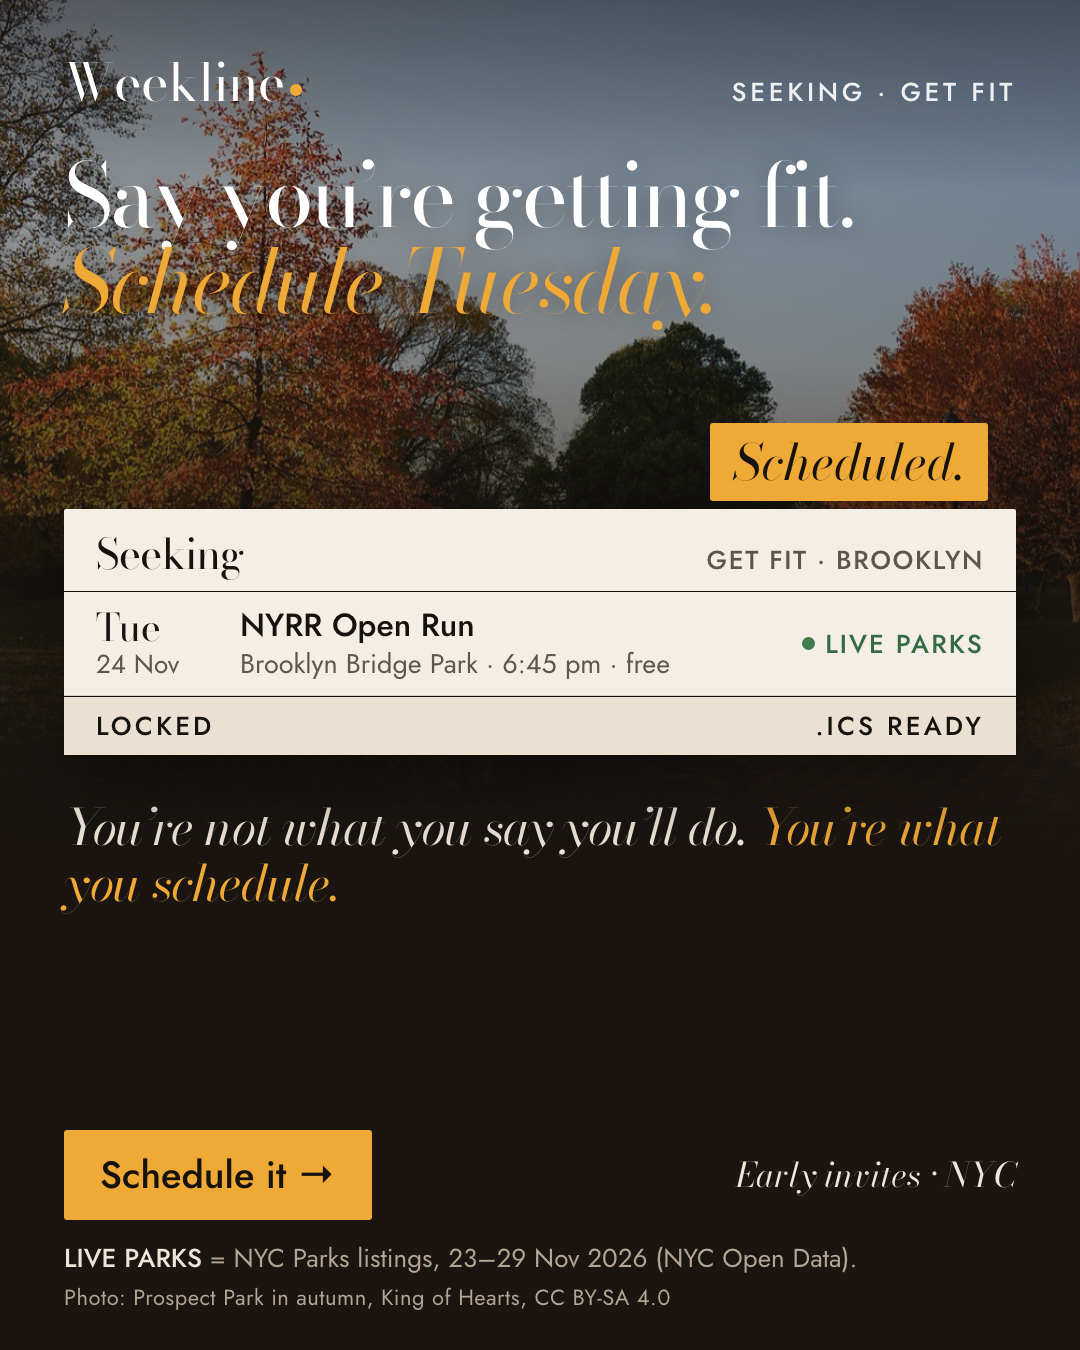
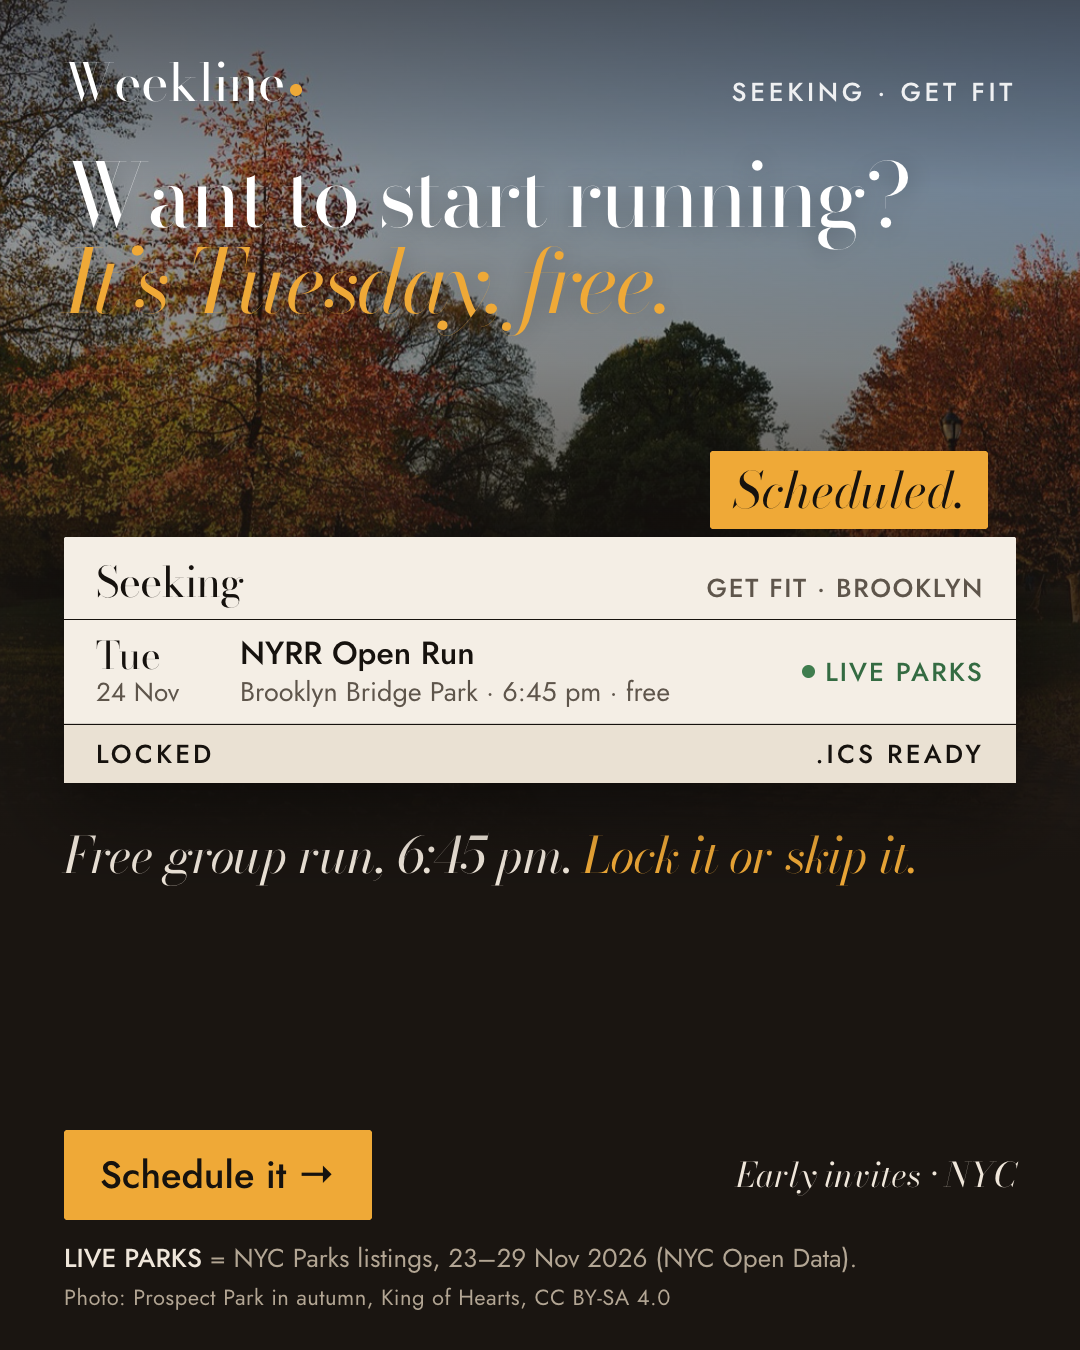
Weekline: new hooks (Sunday-night hero, no-guilt running frame, warmer invite text)

Changed region(s): [[0.0611, 0.3111, 0.9472, 0.6844], [0.0611, 0.1244, 0.8556, 0.2489], [0.5806, 0.4667, 0.6111, 0.5289]]

diff --git a/public/projects/weekline/landing.html b/public/projects/weekline/landing.html
@@ -142,7 +142,7 @@
     <div class="wrap hero-grid">
       <div>
         <p class="eyebrow" id="hero-eyebrow">Manhattan + Brooklyn · early build</p>
-        <h1 id="hero-h">A free week in Brooklyn, <em>planned.</em></h1>
+        <h1 id="hero-h">Your NYC week, sorted <em>by Sunday night.</em></h1>
         <p class="lede" id="hero-sub">Free and cheap rows matched to your radius. Live NYC Parks events labeled live. Thin days stay honest.</p>
         <div class="btn-row">
           <a class="btn btn-primary" href="/projects/weekline/v2/">Try the live demo
@@ -334,10 +334,26 @@
   var p = new URLSearchParams(location.search).get('a') || '';
   var alias = { free: 'gain', seek: 'identity' };
   var a = alias[p] || p;
-  if (!/^(pain|gain|identity)$/.test(a)) a = 'gain';
+  if (!/^(pain|gain|identity|sunday)$/.test(a)) a = 'sunday';
 
   // h: headline; em: the words set in italic (styling only, same copy)
   var V = {
+    sunday: {
+      eyebrow: 'Manhattan + Brooklyn · early build',
+      h: 'Your NYC week, sorted by Sunday night.', em: 'by Sunday night.',
+      sub: 'Free and cheap things that are actually on, matched to your goals and your side of the river.',
+      title: 'Your week · Cheap Thrills', meta: 'Brooklyn · stay close (~20 min) · free only',
+      rows: [
+        ['Mon', '6:30 pm', 'Shape Up NYC fitness class', 'Brooklyn rec center', 'Free', 'live'],
+        ['Tue', '', 'Open night', '', '', 'open'],
+        ['Wed', '6:00 pm', 'Free museum evening', 'Brooklyn', 'Free', 'sample'],
+        ['Thu', '', 'Open night', '', '', 'open'],
+        ['Fri', '7:00 pm', 'Gallery openings walk', 'Bushwick', 'Free', 'editorial'],
+        ['Sat', '10:00 am', 'Urban Park Rangers nature walk', 'Prospect Park', 'Free', 'live'],
+        ['Sun', '11:00 am', 'It’s My Park volunteer day', 'McCarren Park', 'Free', 'live']
+      ],
+      total: '<strong>$0</strong> · 5 plans · 2 open'
+    },
     pain: {
       eyebrow: 'Manhattan + Brooklyn · early build',
       h: 'End the “idk you pick” group chat.', em: 'group chat.',
@@ -372,8 +388,8 @@
     },
     identity: {
       eyebrow: 'Seeking · fitness · early build',
-      h: 'Getting fit? Prove it Tuesday.', em: 'Tuesday.',
-      sub: 'You’re not what you say you’ll do. You’re what you schedule. Parks classes, on your calendar.',
+      h: 'Want to start running? It’s Tuesday, free.', em: 'It’s Tuesday, free.',
+      sub: 'Free NYC Parks classes and group runs near you, on your calendar. No streaks, no coach.',
       title: 'Seeking · Fitness', meta: 'Brooklyn · stay close (~20 min) · free only',
       rows: [
         ['Mon', '', 'Open', '', '', 'open'],

diff --git a/public/projects/weekline/ads/frames.html b/public/projects/weekline/ads/frames.html
@@ -130,7 +130,7 @@ var F={
    '<div class="grow">'+sheet([LIVE.mon,LIVE.tue,OPEN.wed,SAMPLE.sat],{m:'Cheap Thrills · Brooklyn'},'','<span>Send to chat</span><span>.ics ready</span>')+'</div>'+
    CTA('See a sample week','Early invites · NYC')+FOOT_MIX;},
  2:function(){return TOP('Pick a crew · get the week')+
-   '<h1>Your NYC week, on <em>one Sheet.</em></h1>'+
+   '<h1>Your NYC week, sorted <em>by Sunday night.</em></h1>'+
    '<p class="sub">Crew, borough, radius, budget. Mon–Sun, ready to send.</p>'+
    '<div class="grow">'+sheet(WEEK,{m:'Brooklyn · ~40 min · Under $25',place:false},'compact','<span>Send to chat</span><span>.ics ready</span>')+'</div>'+
    CTA('See a sample week','Early invites · NYC')+FOOT_MIX;},
@@ -145,17 +145,17 @@ var F={
    '<div class="grow">'+sheet([LIVE.tue,OPEN.wed,OPEN.thu,SAMPLE.sat],{m:'Brooklyn · Under $25'},'','<span>Add to calendar</span><span>.ics</span>')+'</div>'+
    CTA('Get my week','Early invites · NYC')+FOOT_MIX;},
  5:function(){return TOP('Seeking · get fit')+
-   '<h1>Say you’re getting fit. <em>Schedule Tuesday.</em></h1>'+
+   '<h1>Want to start running? <em>It’s Tuesday, free.</em></h1>'+
    '<div class="grow">'+sheet([LIVE.tue],{title:'Seeking',m:'Get fit · Brooklyn'},'roomy','<span>Locked</span><span>.ics ready</span>','<span class="stamp" style="right:28px;top:-86px">Scheduled.</span>')+
-   '<p class="quote">You’re not what you say you’ll do. <em>You’re what you schedule.</em></p></div>'+
+   '<p class="quote">Free group run, 6:45 pm. <em>Lock it or skip it.</em></p></div>'+
    CTA('Schedule it','Early invites · NYC')+FOOT_LIVE;},
  6:function(){
    var mon={d:'Mon',n:'23 Nov',t:'Bodyweight Interval Training',p:'Why: low impact, all levels · 6 pm',b:'live'};
    var tue={d:'Tue',n:'24 Nov',t:'NYRR Open Run',p:'Why: free ~3-mile group run · 6:45 pm',b:'live'};
    var fri={d:'Fri',n:'27 Nov',t:'Post-Thanksgiving Super Hike',p:'Why: 2-hour Rangers hike · noon',b:'live'};
    return TOP('Seeking · get fit')+
-   '<h1>Getting fit? <em>Prove it Tuesday.</em></h1>'+
-   '<p class="sub">This week’s NYC Parks events, each with a why.</p>'+
+   '<h1>This week’s free workouts, <em>each with a why.</em></h1>'+
+   '<p class="sub">Live NYC Parks events near you, 23–29 Nov.</p>'+
    '<div class="grow">'+sheet([mon,tue,OPEN.wed,fri],{title:'Seeking',m:'Get fit · Brooklyn'},'roomy','<span>Lock · skip</span><span>.ics ready</span>')+'</div>'+
    CTA('Schedule it','No streaks. No coach.')+FOOT_LIVE;}
 };

diff --git a/public/projects/weekline/ads.html b/public/projects/weekline/ads.html
@@ -111,10 +111,10 @@ code{font-size:.85em;background:var(--paper-2);padding:1px 5px;overflow-wrap:any
 var U='&utm_source=meta&utm_medium=paid&utm_campaign=wl-test-1&utm_content=';
 var F=[
  {a:'A · Pain',p:'Ten screenshots. One group chat. Zero plans. Weekline turns what’s on in NYC into a Mon–Sun Sheet you can send.',h:'End the ‘idk you pick’ chat',c:'Learn more',q:'pain',id:'a1'},
- {a:'A · Pain',p:'Stop planning in tabs. Weekline builds the week, you send it to the chat. Early invites open in NYC.',h:'Send the plan, not the list',c:'Sign up',q:'pain',id:'a3'},
+ {a:'A · Pain',p:'Stop planning in tabs. Weekline builds the week, you send it to the chat. Early invites open in NYC.',h:'Your week, sorted by Sunday night',c:'Sign up',q:'pain',id:'a3'},
  {a:'B · Gain',p:'A Brooklyn week under $25, built from what’s on. NYC Parks events labeled live. Empty nights stay empty.',h:'A free week in Brooklyn, planned',c:'Learn more',q:'gain',id:'b1'},
  {a:'B · Gain',p:'Maximum city, minimum spend. Get a Mon–Sun Sheet you can add to your calendar.',h:'Free NYC, sorted by day',c:'Sign up',q:'gain',id:'b3'},
- {a:'C · Identity',p:'You’re not what you say you’ll do. You’re what you schedule. Free Parks fitness, on your week.',h:'Getting fit? Prove it Tuesday.',c:'Learn more',q:'identity',id:'c1'},
+ {a:'C · Identity',p:'Free group runs and NYC Parks classes near you, ready for your calendar. No streaks, no coach.',h:'Start running? It’s Tuesday, free.',c:'Learn more',q:'identity',id:'c1'},
  {a:'C · Identity',p:'No streaks, no coach. Just this week’s NYC Parks fitness near you, ready for your calendar.',h:'Your fit week, in Brooklyn',c:'Sign up',q:'identity',id:'c3'}
 ];
 var i=0,$=function(x){return document.getElementById(x)};

diff --git a/public/projects/weekline/v2/app.js b/public/projects/weekline/v2/app.js
@@ -172,7 +172,7 @@ function welcomeView() {
   const z = ui.guestZone;
   const body = ui.auth ? authSheet() : `
     <p class="cap">Brooklyn Bridge Park, sunset 4:31 pm</p>
-    <h1>Your NYC week, built around <em>what you want.</em></h1>
+    <h1>Your NYC week, sorted <em>by Sunday night.</em></h1>
     <button class="btn sun" data-act="guest">Show me a week<small>No account. A surprise week for ${z === "manhattan" ? "Manhattan" : "Brooklyn"}.</small></button>
     <div class="zonepick" role="group" aria-label="Surprise week for">
       ${ZONES.map((x) => `<button data-act="gzone" data-v="${x.id}" aria-pressed="${z === x.id}">${x.label}</button>`).join("")}
@@ -595,7 +595,7 @@ function crewView() {
         <p class="names">${nIn ? esc(names.join(", ")) : "Be the first. Send it to someone."}${nMaybe ? ` <span class="muted">· ${nMaybe} maybe</span>` : ""}</p>
         <p class="cnt">${nIn}<small>going</small></p>
       </div>
-      <div class="send"><span>Send to the group</span>${sendLinks(inviteUrl(active), `Come with me: ${e.title}, ${e.when || ""}.`)}</div>
+      <div class="send"><span>Send to the group</span>${sendLinks(inviteUrl(active), `I'm going to ${e.title}${e.when ? ", " + e.when : ""}. Are you in?`)}</div>
       ${inv.local ? `<p class="fine wrap" style="margin-top:8px">Made without the server, so replies only count on the phone they're tapped on.</p>` : ""}`;
   } else if (active && !inv) {
     top = `<p class="wrap empty">Loading your invite…</p>`;
